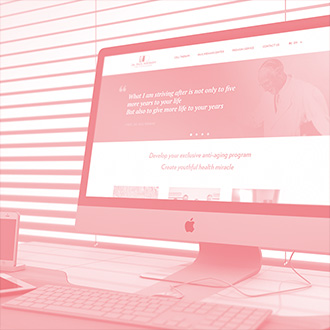
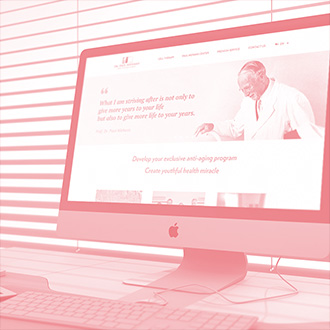
update homey website and mr.brown

diff --git a/works/mr.brown.html b/works/mr.brown.html
@@ -1,0 +1,125 @@
+<!DOCTYPE html>
+<!--[if lt IE 7]>      <html class="no-js lt-ie9 lt-ie8 lt-ie7"> <![endif]-->
+<!--[if IE 7]>         <html class="no-js lt-ie9 lt-ie8"> <![endif]-->
+<!--[if IE 8]>         <html class="no-js lt-ie9"> <![endif]-->
+<!--[if gt IE 8]><!--> <html class="no-js"> <!--<![endif]-->
+<head>
+    <meta charset="utf-8">
+    <meta http-equiv="X-UA-Compatible" content="IE=edge">
+    <title>Tinyi Yeh</title>
+    <meta name="description" content="">
+    <meta name="viewport" content="width=device-width, initial-scale=1">
+
+    <!-- Place favicon.ico and apple-touch-icon.png in the root directory -->
+
+    <link href='https://fonts.googleapis.com/css?family=Montserrat:400,700' rel='stylesheet' type='text/css'>
+
+    <base href="../">
+
+<!--        <link rel="stylesheet" href="css/normalize.css">-->
+    <link rel="stylesheet" href="css/animate.css">
+<!--        <link rel="stylesheet" href="css/main.css">-->
+    <link rel="stylesheet" href="css/bootstrap.min.css">
+    <link rel="stylesheet" href="css/common.css">
+    <link rel="stylesheet" href="css/about.css">
+    <link rel="stylesheet" href="css/work.css">
+    <script src="js/vendor/modernizr-2.6.2.min.js"></script> 
+    <script src="https://ajax.googleapis.com/ajax/libs/jquery/2.1.3/jquery.min.js"></script>
+    <script src="js/main.js"></script>
+</head>
+<body>
+    
+  <header class="header">
+      <div class="container">
+          <a href="/" class="logo" title="tinyi yeh">
+              <span>Tinyi<br>Yeh</span>
+          </a>
+          <nav class="nav">
+              <ul class="nav-links hidden-xs">
+                  <li><a href="about">ABOUT</a></li><li><a href="work" class="active">WORK</a></li><li><a href="mailto:tinyi30@gmail.com">CONTACT</a></li>
+              </ul>
+              <a href="" class="mobile-nav-btn nav-open visible-xs"><span class="glyphicon glyphicon-menu-hamburger"></span></a>
+              <a href="" class="mobile-nav-btn nav-close"><span class="glyphicon glyphicon-remove"></span></a>
+          </nav>
+      </div>
+  </header>
+  
+  <div class="mobile-nav">
+      <ul class="mobile-nav-links">
+          <li><a href="index">HOME</a></li>
+          <li><a href="about">ABOUT</a></li>
+          <li><a href="work">WORK</a></li>
+          <li><a href="mailto:tinyi30@gmail.com">CONTACT</a></li>
+      </ul>
+  </div>
+  
+  <div class="mobile-wrap">
+    <section class="content work">
+        <!-- introduction-->
+        <div class="container">
+            <div class="content-block">
+                <h2>MR.BROWN APP DESIGN</h2>
+                <div class="green-words">
+                    2015 · DIGITAL PRODUCT DESIGN · USER INTERFACE DESIGN · USER EXPERIENCE DESIGN · INTERACTION DESIGN · VISUAL DESIGN
+                </div>
+                <p>
+                    Mr. Brown is a famous coffee brand in Taiwan. I started this app from the very beginning to the very end. I was the lead designer that worked closely with Android and iOS developers to build this App.
+                </p>
+                <a target="_blank"  href="https://play.google.com/store/apps/details?id=tw.com.mrbrown.storedvalue" class="green-words align">android app</a>
+                <a target="_blank"  href="https://itunes.apple.com/tw/app/bo-lang-ka-fei-guan-mr.-brown/id998279279?mt=8" class="green-words align">ios app</a>
+            </div>
+        </div>
+        
+        <!--pics-->
+        <div class="gallery js-work-gallery" data-prefix="img/works-mr.brown/tinyi.mr.brown" data-count="6" data-ext="jpg"></div>
+        
+        <!-- other works-->
+        <div class="container">
+            <div class="content-block">
+                <h3>SEE SOME OTHER WORKS I'VE DONE</h3>
+            </div>
+            <!-- other works goes here -->
+            <div class="js-partial" data-src="partial/works"></div>
+        </div>      
+    </section>
+    
+    <footer class="footer">
+      <div class="container">
+          <div class="footer-items">
+              <div class="row">
+                  <div class="col-sm-3 col-xs-6 footer-item footer-item-mail">
+                      <a href="mailto:tinyi30@gmail.com">TINYI30@GMAIL.COM</a>
+                  </div>
+                  <div class="col-sm-3 col-xs-6 footer-item footer-item-behance visible-xs">
+                      <a href="https://www.behance.net/ivyyeh" target="_blank">BEHANCE</a>
+                  </div>
+                  <div class="col-sm-3 col-xs-6 footer-item footer-item-phone hidden-xs">
+                      +886978208683
+                  </div>
+                  <div class="col-sm-3 col-xs-6 footer-item footer-item-phone visible-xs">
+                      +886978208683
+                  </div>
+                  <div class="col-sm-3 col-xs-6 footer-item footer-item-behance hidden-xs">
+                      <a href="https://www.behance.net/ivyyeh" target="_blank">BEHANCE</a>
+                  </div>
+                  <div class="col-sm-3 col-xs-6 footer-item footer-item-copyright">
+                      ©TINYI YEH
+                  </div>
+              </div>
+          </div>
+      </div>
+    </footer>
+  </div>
+  
+  <script>
+  (function(i,s,o,g,r,a,m){i['GoogleAnalyticsObject']=r;i[r]=i[r]||function(){
+  (i[r].q=i[r].q||[]).push(arguments)},i[r].l=1*new Date();a=s.createElement(o),
+  m=s.getElementsByTagName(o)[0];a.async=1;a.src=g;m.parentNode.insertBefore(a,m)
+  })(window,document,'script','//www.google-analytics.com/analytics.js','ga');
+
+  ga('create', 'UA-60458099-1', 'auto');
+  ga('send', 'pageview');
+
+</script>
+</body>
+</html>

diff --git a/works/homey.website.html b/works/homey.website.html
@@ -1,0 +1,123 @@
+<!DOCTYPE html>
+<!--[if lt IE 7]>      <html class="no-js lt-ie9 lt-ie8 lt-ie7"> <![endif]-->
+<!--[if IE 7]>         <html class="no-js lt-ie9 lt-ie8"> <![endif]-->
+<!--[if IE 8]>         <html class="no-js lt-ie9"> <![endif]-->
+<!--[if gt IE 8]><!--> <html class="no-js"> <!--<![endif]-->
+<head>
+    <meta charset="utf-8">
+    <meta http-equiv="X-UA-Compatible" content="IE=edge">
+    <title>Tinyi Yeh</title>
+    <meta name="description" content="">
+    <meta name="viewport" content="width=device-width, initial-scale=1">
+
+    <!-- Place favicon.ico and apple-touch-icon.png in the root directory -->
+
+    <link href='https://fonts.googleapis.com/css?family=Montserrat:400,700' rel='stylesheet' type='text/css'>
+
+    <base href="../">
+
+<!--        <link rel="stylesheet" href="css/normalize.css">-->
+    <link rel="stylesheet" href="css/animate.css">
+<!--        <link rel="stylesheet" href="css/main.css">-->
+    <link rel="stylesheet" href="css/bootstrap.min.css">
+    <link rel="stylesheet" href="css/common.css">
+    <link rel="stylesheet" href="css/about.css">
+    <link rel="stylesheet" href="css/work.css">
+    <script src="js/vendor/modernizr-2.6.2.min.js"></script> 
+    <script src="https://ajax.googleapis.com/ajax/libs/jquery/2.1.3/jquery.min.js"></script>
+    <script src="js/main.js"></script>
+</head>
+<body>
+    
+  <header class="header">
+      <div class="container">
+          <a href="/" class="logo" title="tinyi yeh">
+              <span>Tinyi<br>Yeh</span>
+          </a>
+          <nav class="nav">
+              <ul class="nav-links hidden-xs">
+                  <li><a href="about">ABOUT</a></li><li><a href="work" class="active">WORK</a></li><li><a href="mailto:tinyi30@gmail.com">CONTACT</a></li>
+              </ul>
+              <a href="" class="mobile-nav-btn nav-open visible-xs"><span class="glyphicon glyphicon-menu-hamburger"></span></a>
+              <a href="" class="mobile-nav-btn nav-close"><span class="glyphicon glyphicon-remove"></span></a>
+          </nav>
+      </div>
+  </header>
+  
+  <div class="mobile-nav">
+      <ul class="mobile-nav-links">
+          <li><a href="index">HOME</a></li>
+          <li><a href="about">ABOUT</a></li>
+          <li><a href="work">WORK</a></li>
+          <li><a href="mailto:tinyi30@gmail.com">CONTACT</a></li>
+      </ul>
+  </div>
+  
+  <div class="mobile-wrap">
+    <section class="content work">
+        <!-- introduction-->
+        <div class="container">
+            <div class="content-block">
+                <h2>HOEMY HOSTEL WEBSITE</h2>
+                <div class="green-words">
+                    2015 · USER INTERFACE DESIGN · USER EXPERIENCE DESIGN · INTERACTION DESIGN · VISUAL DESIGN · RESPONSIVE
+                </div>
+                <p>
+                    After talking with the founder of HOMEYHOSTEL - Josh, I discovered that he really is an awesome client. We talked together to find out what his goals for the new website were. It was a great success! The last version was pretty much the same as my original version which I was very appreciative about. I was freelanced as a designer and worked closely with a front-end engineer to build this website.
+                </p>
+                <a target="_blank"  href="http://www.homeyhostel.com/" class="green-words">WEBSITE</a>
+            </div>
+        </div>
+        
+        <!--pics-->
+        <div class="gallery js-work-gallery" data-prefix="img/works-homey.website/tinyi.homey.website" data-count="7" data-ext="jpg"></div>
+        
+        <!-- other works-->
+        <div class="container">
+            <div class="content-block">
+                <h3>SEE SOME OTHER WORKS I'VE DONE</h3>
+            </div>
+            <!-- other works goes here -->
+            <div class="js-partial" data-src="partial/works"></div>
+        </div>      
+    </section>
+    
+    <footer class="footer">
+      <div class="container">
+          <div class="footer-items">
+              <div class="row">
+                  <div class="col-sm-3 col-xs-6 footer-item footer-item-mail">
+                      <a href="mailto:tinyi30@gmail.com">TINYI30@GMAIL.COM</a>
+                  </div>
+                  <div class="col-sm-3 col-xs-6 footer-item footer-item-behance visible-xs">
+                      <a href="https://www.behance.net/ivyyeh" target="_blank">BEHANCE</a>
+                  </div>
+                  <div class="col-sm-3 col-xs-6 footer-item footer-item-phone hidden-xs">
+                      +886978208683
+                  </div>
+                  <div class="col-sm-3 col-xs-6 footer-item footer-item-phone visible-xs">
+                      +886978208683
+                  </div>
+                  <div class="col-sm-3 col-xs-6 footer-item footer-item-behance hidden-xs">
+                      <a href="https://www.behance.net/ivyyeh" target="_blank">BEHANCE</a>
+                  </div>
+                  <div class="col-sm-3 col-xs-6 footer-item footer-item-copyright">
+                      ©TINYI YEH
+                  </div>
+              </div>
+          </div>
+      </div>
+    </footer>
+  </div>
+<script>
+  (function(i,s,o,g,r,a,m){i['GoogleAnalyticsObject']=r;i[r]=i[r]||function(){
+  (i[r].q=i[r].q||[]).push(arguments)},i[r].l=1*new Date();a=s.createElement(o),
+  m=s.getElementsByTagName(o)[0];a.async=1;a.src=g;m.parentNode.insertBefore(a,m)
+  })(window,document,'script','//www.google-analytics.com/analytics.js','ga');
+
+  ga('create', 'UA-60458099-1', 'auto');
+  ga('send', 'pageview');
+
+</script>
+</body>
+</html>

diff --git a/partial/works.html b/partial/works.html
@@ -6,9 +6,9 @@
           </a>
       </div>
       <div class="col-xs-12 col-sm-4 col-lg-3">
-          <a href="works/passes" class="work-item">
-              <img src="img/works/passes.jpg" srcset="img/works/passes@2x.jpg 2x" alt="">
-              <div class="work-item-desc"><span class="text">passes<br>app for<br>passbook</span></div>
+          <a href="works/mr.brown" class="work-item">
+              <img src="img/works/mr.brown.jpg" srcset="img/works/mr.brown@2x.jpg 2x" alt="">
+              <div class="work-item-desc"><span class="text">mr.brown<br>app<br>design</span></div>
           </a>
       </div>
       <div class="col-xs-12 col-sm-4 col-lg-3">
@@ -36,9 +36,9 @@
           </a>
       </div>
       <div class="col-xs-12 col-sm-4 col-lg-3">
-          <a href="works/xmas" class="work-item">
-              <img src="img/works/xmas.card.jpg" srcset="img/works/xmas.card@2x.jpg 2x" alt="">
-              <div class="work-item-desc"><span class="text">X'mas Card<br>design</span></div>
+          <a href="works/homey.website" class="work-item">
+              <img src="img/works/homey.website.jpg" srcset="img/works/homey.website@2x.jpg 2x" alt="">
+              <div class="work-item-desc"><span class="text">homey<br>hostel<br>website</span></div>
           </a>
       </div>
       <div class="col-xs-12 col-sm-4 col-lg-3">
